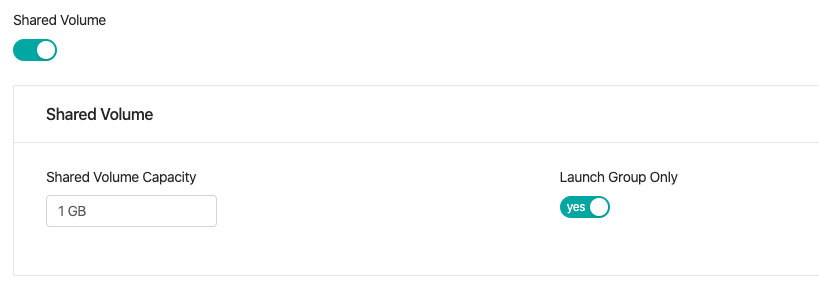
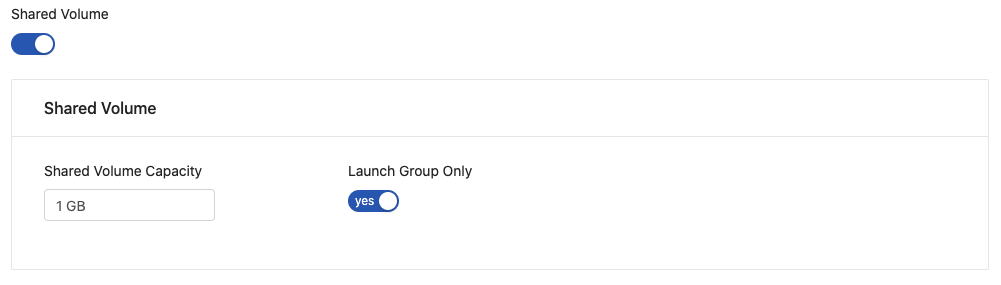
Update docs with screenshots from v3.4

diff --git a/docs/quickstart/add-infuseai-image.md b/docs/quickstart/add-infuseai-image.md
@@ -31,9 +31,9 @@ We can learn URLs respectively from the list.
 
 ## Steps
 
-1. Log in as an administrator and [switch to Admin Portal](login-portal-admin).
+1. Log in as a Group admin or as an Administrator.
    
-2. Enter `Image` Management and click `+ Add`.
+2. Enter `Image` Management from User Portal/[Admin Portal](login-portal-admin) respectively and click `+ Add`.
 
 3. Fill in `Name`: such as `tf-21`.
 
@@ -41,7 +41,7 @@ We can learn URLs respectively from the list.
    
    1. Select `Type`: `Universal`。
         
-        In terms of  `Universal`, we can assign a CPU-only image and a GPU-supported image respectively. When spawning a JupyterHub, PrimeHub will pick up the corresponding image according to the specified instance type (CPU-only or GPU-required).
+        In terms of  `Universal`, we can assign a CPU-only image and a GPU-supported image respectively. When spawning a Notebook, PrimeHub will pick up the corresponding image according to the specified instance type (CPU-only or GPU-required).
 
 
 5. Fill in `Container image url`: CPU-only `infuseai/docker-stacks:tensorflow-notebook-tf-v2-3f48358e` 
@@ -55,7 +55,7 @@ We can learn URLs respectively from the list.
 
 ## Verify
 
-1. Enter `JupyterHub` from User Portal.
+1. Enter `Notebook` from User Portal.
    
 2. Select a group which can utilize the newly added image.
    
@@ -63,13 +63,13 @@ We can learn URLs respectively from the list.
 
 4. Select the newly added Image `tf-21`.
 
-5. `Start Notebook`. It takes time to pull off the newly added image for the first time; As long as a JupyterHub is launched successfully, the image is pulled successfully.
+5. `Start Notebook`. It takes time to pull off the newly added image for the first time; As long as a Notebook is launched successfully, the image is pulled successfully.
 
 #### Verify GPU Image (Please avoid affecting users )：
 
-1. Close/Stop previously launched JupyterHub. [REF](launch-project#stop)
+1. Close/Stop previously launched Notebook. [REF](launch-project#stop)
 
-2. Enter `JupyterHub` from User Portal.
+2. Enter `Notebook` from User Portal.
    
 3. Select a group which can utilize the newly added image.
    
@@ -77,4 +77,4 @@ We can learn URLs respectively from the list.
 
 5. Select the newly added Image `tf-21`.
 
-6. `Start Notebook`. It takes time to pull off the newly added image for the first time; As long as a JupyterHub is launched successfully, the image is pulled successfully.
+6. `Start Notebook`. It takes time to pull off the newly added image for the first time; As long as a Notebook is launched successfully, the image is pulled successfully.

diff --git a/docs/guide_manual/admin-dataset.md b/docs/guide_manual/admin-dataset.md
@@ -100,9 +100,10 @@ In PrimeHub, a hostPath volume mounts a directory from the hosting node's filesy
 
 Fill the URL of git repo (can be https or git). You can use `#branch` to specify the branch or tag name.
 
+Click `Change` to select a secret from the list if a credential is required.
+
 ![](assets/dataset_secret_list.png)
 
-Click `Change` to select a secret from the list `if a pull-secret is required`.
 
 ---
 

diff --git a/docs/shared-files.md b/docs/shared-files.md
@@ -65,4 +65,4 @@ or even a path like `path/to/file`, press `Enter`.
 
 Then upload files.
 
-> The nested directories won't be created until a file is uploaded into, in other words, when showing `No data`, at this moment, no directories is created.
+> The nested directories won't be created until a file is uploaded into, in other words, when showing `No data`, at this moment, no directories is created yet.

diff --git a/docs/quickstart/create-group.md b/docs/quickstart/create-group.md
@@ -33,7 +33,7 @@ A user can be assigned to multiple groups.
    1. Specify the `volume capacity`
    2. Enabled `Launch Group Only` if this volume is accessed only by this group.
 
-   ![qs-create-group.png](assets/qs-create-group.png)
+   ![qs-create-group.png](assets/jobsub-tt-p1-1.png)
 
 5. Adjust `User Quota` if resource allocation limit is required for each user.
 
